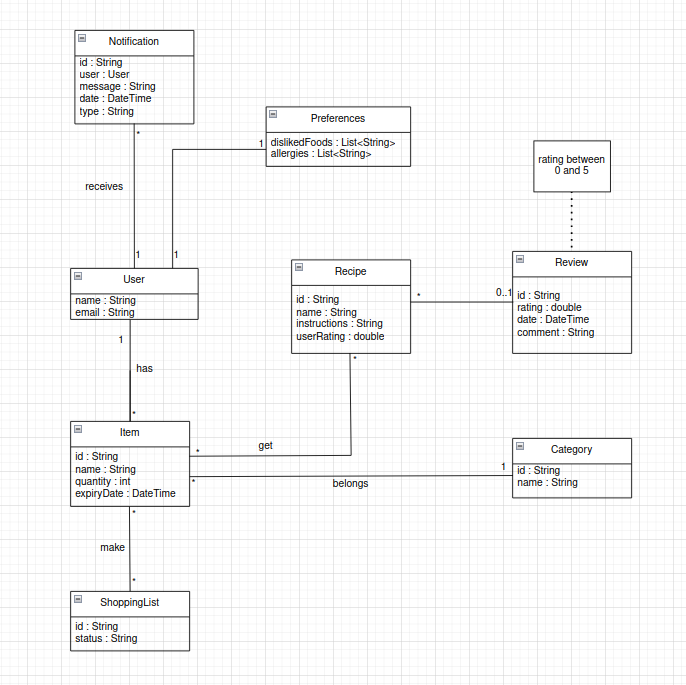
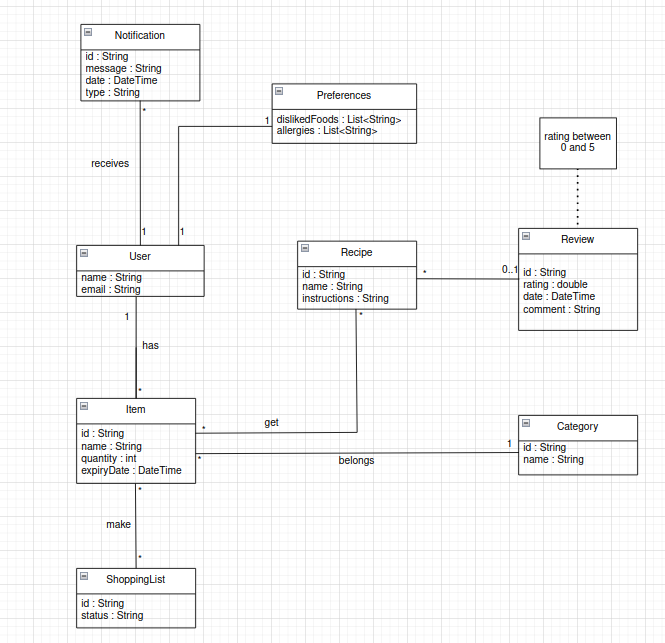
Added logical architecture

Changed region(s): [[0.0902, 0.0311, 0.9624, 0.9953], [0.4211, 0.3421, 0.9624, 0.5599], [0.7519, 0.1555, 0.9323, 0.311]]

diff --git a/README.md b/README.md
@@ -151,7 +151,7 @@ Example:
 </p>
 -->
 
- <p align="center" justify="center">
+<p align="center" justify="center">
   <img src="img/DomainModelUML.png"/>
 </p>
 
@@ -186,6 +186,13 @@ Example of _UML package diagram_ showing a _logical view_ of the Eletronic Ticke
 ![LogicalView](https://user-images.githubusercontent.com/9655877/160585416-b1278ad7-18d7-463c-b8c6-afa4f7ac7639.png)
 -->
 
+<p align="center" justify="center">
+  <img src="img/LogicalArchitectureUML.png"/>
+</p>
+
+The user interacts with the MealIdeas UI to perform actions such as searching for recipes or managing the inventory. These requests are processed through the business logic layer, which manages data flow and ensures smooth interactions.
+
+The business logic layer retrieves and stores relevant information using Google Firebase services. Firestore is utilized for structured data management, while Cloud Storage handles multimedia content. Additionally, external data is fetched from the Spoonacular API to enhance the app’s functionality with recipe and meal-related insights.
 
 ### Physical architecture
 <!--
